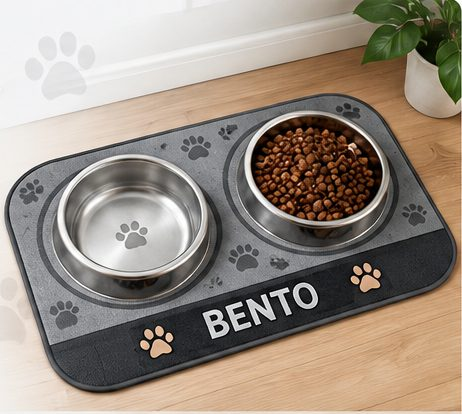
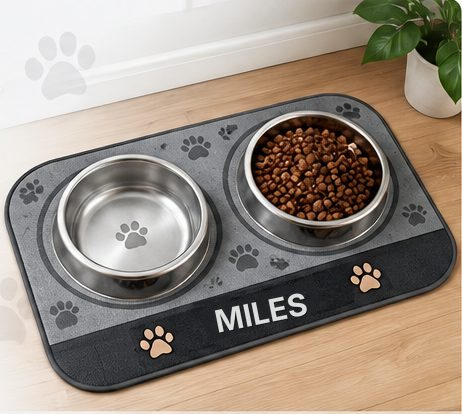
Comedouro: 40 × 60 cm, sem potes, prévia com e sem potes, tema preto e cinza e amarelo
A foto ilustrativa passa a mostrar o nome Miles.

Claude-Session: https://claude.ai/code/session_01SECtoHoAc2YtdZR75BmvjE

Changed region(s): [[0.4242, 0.6667, 0.697, 0.8406]]

diff --git a/public/js/comedouro.js b/public/js/comedouro.js
@@ -1,7 +1,7 @@
 // Personalizador do comedouro: tapete que fica embaixo dos potes de água e
 // ração, com o nome do pet (ou uma frase curta) e um tema de cores.
 // Mesma interface do Personalizador de imagens: estado(), exportar(), destruir().
-// Os potes aparecem só na prévia, como ilustração; o arquivo de produção é só o tapete.
+// A prévia mostra o tapete com os potes (ilustração) e sem eles; o arquivo de produção é só o tapete.
 
 import { esc } from "./util.js";
 
@@ -80,7 +80,10 @@ export class PersonalizadorComedouro {
     const max = regras.textoMax || 14;
     this.o.previa.innerHTML = `
       <div class="previa-box">
-        <div class="previa-palco"><canvas role="img" aria-label="Prévia do tapete do comedouro com o nome do pet"></canvas></div>
+        <div class="previa-palco previas-comedouro">
+          <figure><canvas data-com-potes role="img" aria-label="Prévia do tapete com os potes de água e ração em cima"></canvas><figcaption>Com os potes</figcaption></figure>
+          <figure><canvas data-sem-potes role="img" aria-label="Prévia do tapete sozinho, sem os potes"></canvas><figcaption>Sem os potes</figcaption></figure>
+        </div>
         <div class="previa-legenda"><span data-legenda></span><span>Potes só na ilustração</span></div>
         <p class="aviso-previa" data-aviso-previa><strong>Prévia ilustrativa.</strong> A peça impressa pode ter pequenas diferenças de cor e de enquadramento.${this.o.proporcaoProvisoria ? " A medida do tapete ainda será definida pela loja." : ""}</p>
         ${this.o.notaPotes ? `<p class="dica-artes" data-nota-potes>${esc(this.o.notaPotes)}</p>` : ""}
@@ -88,7 +91,7 @@ export class PersonalizadorComedouro {
     this.o.controles.innerHTML = `
       <div class="grupo campo">
         <label for="nome-pet"><span class="rotulo">${esc(regras.rotuloTexto || "Nome do pet")} (obrigatório)</span></label>
-        <input type="text" id="nome-pet" data-texto maxlength="${max}" autocomplete="off" placeholder="Ex.: Bento" aria-describedby="dica-nome-pet">
+        <input type="text" id="nome-pet" data-texto maxlength="${max}" autocomplete="off" placeholder="Ex.: Miles" aria-describedby="dica-nome-pet">
         <div class="dica" id="dica-nome-pet"><span data-contagem>0</span>/${max} caracteres.${regras.dicaTexto ? " " + esc(regras.dicaTexto) : ""}</div>
       </div>
       ${this.temas.length ? `
@@ -100,8 +103,10 @@ export class PersonalizadorComedouro {
             <strong>${esc(t.nome)}</strong></label>`).join("")}</div>
       </fieldset>` : ""}`;
 
-    this.canvas = this.o.previa.querySelector("canvas");
-    this.ctx = this.canvas.getContext("2d");
+    this.telas = [
+      { canvas: this.o.previa.querySelector("[data-com-potes]"), comPotes: true },
+      { canvas: this.o.previa.querySelector("[data-sem-potes]"), comPotes: false },
+    ];
     this.o.previa.querySelector("[data-legenda]").textContent = this.o.legenda || "";
     const entrada = this.o.controles.querySelector("[data-texto]");
     entrada.addEventListener("input", () => {
@@ -145,7 +150,7 @@ export class PersonalizadorComedouro {
     // patinhas espalhadas em grade levemente desalinhada
     const passo = h * 0.2;
     for (let lin = 0, y = passo * 0.45; y < h * 0.72; y += passo * 0.8, lin++) {
-      for (let x = passo * (lin % 2 ? 0.9 : 0.45); x < w; x += passo) {
+      for (let x = passo * (lin % 2 ? 0.9 : 0.45); x < w - passo * 0.35; x += passo) {
         patinha(ctx, x, y, h * 0.075, ((lin * 7 + x) % 5 - 2) * 0.25, c.patinhas);
       }
     }
@@ -182,12 +187,13 @@ export class PersonalizadorComedouro {
   }
 
   desenhar() {
-    const palco = this.o.previa.querySelector(".previa-palco");
-    const larguraCss = Math.max(200, palco.clientWidth || 600);
     const dpr = Math.min(2, window.devicePixelRatio || 1);
-    const w = Math.round(larguraCss * dpr), h = Math.round(larguraCss / this.o.proporcao * dpr);
-    if (this.canvas.width !== w || this.canvas.height !== h) { this.canvas.width = w; this.canvas.height = h; }
-    this.compor(this.ctx, w, h, true);
+    for (const { canvas, comPotes } of this.telas) {
+      const larguraCss = Math.max(140, canvas.parentElement.clientWidth || 300);
+      const w = Math.round(larguraCss * dpr), h = Math.round(larguraCss / this.o.proporcao * dpr);
+      if (canvas.width !== w || canvas.height !== h) { canvas.width = w; canvas.height = h; }
+      this.compor(canvas.getContext("2d"), w, h, comPotes);
+    }
   }
 
   async exportar() {

diff --git a/public/css/estilos.css b/public/css/estilos.css
@@ -308,6 +308,10 @@ main { flex: 1; }
 .beneficios span { color: var(--color-muted); font-size: .95rem; overflow-wrap: anywhere; }
 .beneficios a { color: var(--color-black); font-weight: 600; }
 /* temas do comedouro */
-.temas { grid-template-columns: repeat(auto-fill, minmax(120px, 1fr)); }
+.temas { grid-template-columns: repeat(auto-fill, minmax(160px, 1fr)); }
 .opcao-tema { flex-direction: row; align-items: center; gap: 10px; }
 .opcao-tema .amostra { width: 30px; height: 30px; flex: none; border-radius: 8px; border: 1px solid var(--color-border); }
+.previas-comedouro { display: grid; gap: 12px; }
+.previas-comedouro figure { margin: 0; min-width: 0; }
+.previas-comedouro figcaption { font-size: .85rem; font-weight: 600; margin-top: 6px; color: var(--color-muted); }
+.previas-comedouro canvas { cursor: default; }

diff --git a/public/js/app.js b/public/js/app.js
@@ -342,7 +342,7 @@ const CATEGORIAS_PET = [
     titulo: "Comedouros Personalizados",
     botao: "Explorar Comedouros",
     destaques: ["Nome do pet ou frase curta", "Temas e cores para escolher", "Prévia antes de comprar", "Personalização fácil, em poucos passos"],
-    alt: "Tapete cinza com patinhas embaixo de dois potes de inox, um com água e outro com ração, e o nome Bento na faixa da frente",
+    alt: "Tapete cinza com patinhas embaixo de dois potes de inox, um com água e outro com ração, e o nome Miles na faixa da frente",
   },
   {
     produtoId: "tapete-pet",

diff --git a/docs/relatorio.md b/docs/relatorio.md
@@ -35,7 +35,7 @@ O repositório tinha uma única página (`index.html`) feita para a feira da esc
 | Modelos Clássico e Divertido | Sem descrição, imagem de referência e preço: o site mostra "Descrição em breve" e "Imagem de referência em breve". Cada modelo tem `previa.moldura` para receber uma imagem de moldura que aparece na prévia. |
 | Artes da galeria | 10 conceitos originais (Cyber Empire, Dragão, Galáxia, Topográfico, Pet Lovers, Minimalista, Retro Wave, Arte Oriental, Mapa Mundi, Mármore) gerados por programa como demonstração, com o selo "Arte provisória". Nenhum é recorte do cartaz de referência. Precisam ser trocados pelas artes finais (ver README). |
 | Times de futebol | 18 clubes cadastrados. 13 aprovados pelos clubes, segundo o Cassiano em 25/10/2026 (Palmeiras, Flamengo, Corinthians, São Paulo, Santos, Grêmio, Internacional, Atlético Mineiro, Vasco, Botafogo, Coritiba, Athletico Paranaense e Paraná Clube), à venda com imagem de vitrine recortada do cartaz e o selo "Imagem ilustrativa". A impressão precisa dos arquivos originais em alta resolução. Cruzeiro, Fluminense, Bahia, Sport Recife e Fortaleza continuam "Em breve". |
-| Comedouros personalizados | Página `#/comedouros` e personalizador próprio (`public/js/comedouro.js`): nome ou frase curta (até 14 letras), 5 temas de cor e prévia com potes só ilustrativos. Preço R$ 69,90 (informado pelo Cassiano em 25/10/2026). Medida, material e se os potes acompanham ainda não foram informados: o site mostra "Tamanho a definir" (prévia na proporção provisória 1,6 : 1, em `previa.proporcao`) e "Consulte a loja se os potes acompanham o produto" (`incluiPotes: null`). |
+| Comedouros personalizados | Página `#/comedouros` e personalizador próprio (`public/js/comedouro.js`): nome ou frase curta (até 14 letras) e 6 temas de cor (Preto e cinza, igual à foto de referência, Ciano Empire, Rosa, Amarelo, Areia e Azul). Prévia em duas imagens, com os potes (ilustração) e sem os potes. Dados do Cassiano em 25/10/2026: R$ 69,90, 40 × 60 cm, potes não acompanham (`incluiPotes: false`). A imagem da vitrine é recortada da referência, com o nome trocado para "Miles" e o selo "Imagem ilustrativa". Falta informar o material. |
 | Página Tapetes pet | `#/tapetes-pet` mostra as duas categorias (comedouros e tapetes com o rosto do pet), com imagens marcadas "Imagem ilustrativa" e uma faixa só com informações reais: entrega (de `loja.json`), Pix pelo Mercado Pago e WhatsApp da loja. Não há selo de "compra segura". |
 | Estoque | Não há controle de quantidade. Existe só o campo `disponibilidade` (`sob_encomenda`, `pronta_entrega`, `indisponivel`). |
 
@@ -76,7 +76,7 @@ O repositório tinha uma única página (`index.html`) feita para a feira da esc
 2. Para o envio automático: conta da Meta, modelos aprovados e os segredos `WHATSAPP_TOKEN` e `WHATSAPP_PHONE_ID` (passo a passo no README).
 3. Cadastrar descrição e imagem de referência dos Modelos Clássico e Divertido.
 4. Trocar as 10 artes provisórias pelas artes finais.
-5. Comedouros: informar medida, material, se os potes acompanham e, se quiser, os temas de cor definitivos e fotos reais do produto.
+5. Comedouros: informar o material e mandar fotos reais do produto.
 6. Times: guardar a aprovação de cada clube e mandar os arquivos originais em alta resolução para a impressão (as imagens do site são só vitrine).
 
 ## 8. Testes

diff --git a/README.md b/README.md
@@ -61,8 +61,8 @@ A Meta cobra por mensagem de modelo enviada. Só recebe mensagem o cliente que m
 O produto `comedouro` em `catalogo.json` usa `personalizacao.tipo: "texto"`: o cliente digita o nome do pet ou uma frase curta (`textoMax`) e escolhe um tema da lista `temas` (cada tema tem as cores `fundo`, `faixa`, `patinhas`, `texto` e `destaque`). Para definir o produto:
 
 - `modelos[0].preco`: o preço (hoje 69.9). Com `null`, aparece "Preço a definir" e o Pix não é gerado.
-- `modelos[0].dimensoes`: largura e altura em cm e o `rotulo`. Ao preencher, apague `previa.proporcao` e `previa.provisoria` para a prévia usar a medida real.
-- `incluiPotes`: `true` (os potes acompanham), `false` (não acompanham) ou `null` (o site pede para consultar a loja). Os potes na prévia são só ilustração e não entram no arquivo de impressão.
+- `modelos[0].dimensoes`: largura e altura em cm (hoje 60 × 40) e o `rotulo`; a prévia usa essa proporção. Para uma prévia provisória sem medida, use `previa.proporcao` e `previa.provisoria: true`.
+- `incluiPotes`: `true` (os potes acompanham), `false` (não acompanham, como hoje) ou `null` (o site pede para consultar a loja). Os potes na prévia são só ilustração e não entram no arquivo de impressão.
 - `imagemIlustrativa`: imagem de vitrine, sempre com o selo "Imagem ilustrativa". Troque por uma foto real quando houver.
 ## O que editar sem programar
 
